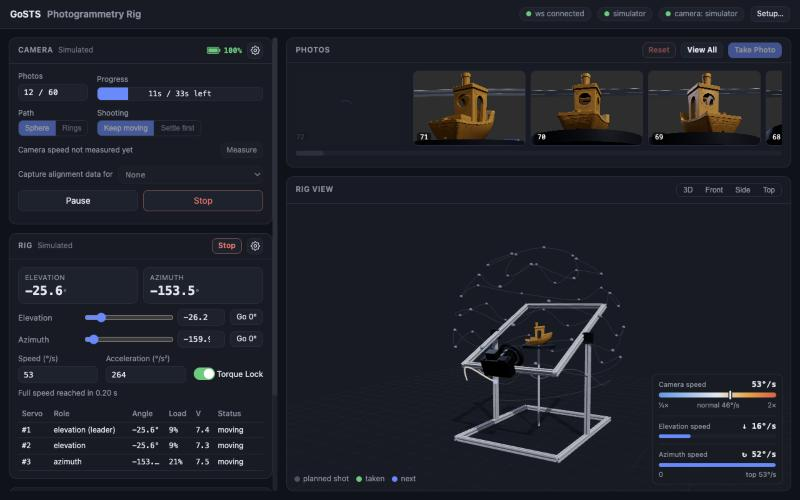
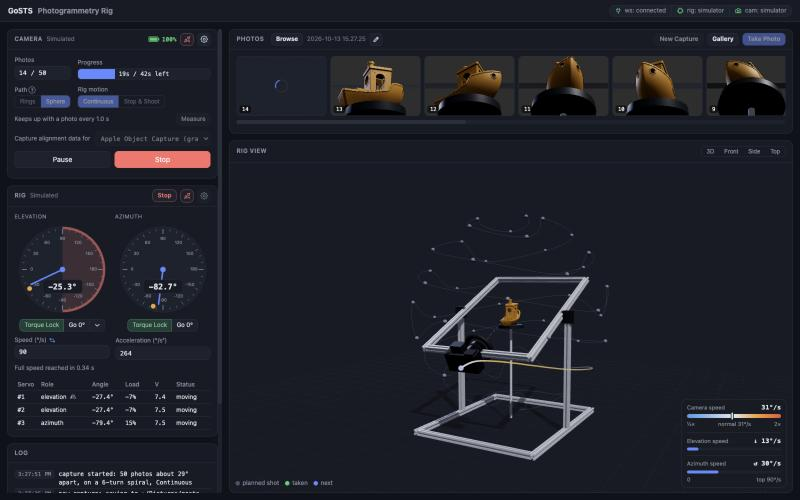
gosts-rig README: new screenshot (a Sphere capture under way) and the model viewer's with Edit open; Edit's steps as they are now

diff --git a/cmd/gosts-rig/README.md b/cmd/gosts-rig/README.md
@@ -4,6 +4,7 @@ Runs a turntable photogrammetry rig from the browser: plan a capture, watch the 
 straight off the camera. An example app of [Go ST Servo](../../README.md).
 
 <p align="center"><img src="../../docs/gosts-rig.jpg" alt="gosts-rig: a moving-shots capture under way, the photos coming in and the rig drawn live"></p>
+<p align="center"><img src="../../docs/gosts-rig-model.jpg" alt="gosts-rig: a capture's model in the 3D viewer, the Edit panel open to level, align, trim and scale it"></p>
 
 ## The rig
 
@@ -12,7 +13,8 @@ straight off the camera. An example app of [Go ST Servo](../../README.md).
 - One ST3215 turns the platform under the target object
 - A camera on USB that [gphoto2](http://gphoto.org) can drive
 
-No hardware? Simulators are available for both the rig and the camera.
+No hardware? Simulators are available for both the rig and the camera (the simulated camera's photos are the 3D
+view from the camera, saved as JPEGs like a real camera's).
 
 ## Install and run
 
@@ -114,25 +116,27 @@ The view buttons at the top left glide to a view, in Blender's and Fusion's axes
 The viewer shows the axes as they do (X red, Y green, Z blue up) and the ground grid at the origin. **Pick Points**,
 then click on the model (each click snaps to the nearest corner of the triangle under it):
 
-1. **Level**: 3 or more points on what it should stand on; the plane through them goes to the ground, the model above it.
-2. **Align**: 2 or more points along an edge, and X or Y; the model turns about the vertical so the edge runs along it.
-3. **Scale**: 2 points and their real distance (mm or in); the model scales to match (Object Capture's own size is a
-   guess from the photos).
-4. **Rotate**: a turn about X, Y and Z (−180° to 180°) through the origin, a slider each (or −90° / +90° at its ends:
-   past ±180° the turn comes round from the other end); the model turns as it's set. It's kept as one step when another
-   starts (the sliders back to 0°); Undo before that puts it back.
-5. **Trim**: move the sides of a box (X, Y, Z, each min and max) in; the part outside it shows cut off as you go, and
+1. **Level**: 3 or more points on what it should stand on (their plane shows, see-through); **Level** puts that plane
+   on the ground, the model above it.
+2. **Align**: 2 or more points along an edge (the upright plane through them shows), and the axis, X or Y; **Align**
+   turns the model about the vertical so the edge runs along it.
+3. **Rotate**: a turn about X, Y and Z (−180° to 180°) through the origin, a slider each (or −90° / +90° at its ends:
+   past ±180° the turn comes round from the other end); the model turns as it's set. **Apply** keeps it as a step (the
+   sliders back to 0°; starting another step does too); Undo before that puts it back.
+4. **Trim**: move the sides of a box (X, Y, Z, each min and max) in; the part outside it shows cut off as you go, and
    **Trim** cuts it away: triangles across a side are cut along it (their texture and normals kept), so the cut is
    exact.
-6. **Center**: a point, then an axis (X, Y or Z): the model slides along it so the point is at 0 on it, the others
-   left as they are; all three, one after another, put the point at the origin. **Apply** keeps it (Clear or Undo,
-   before that, puts it back).
+5. **Center**: a point, then an axis (X, Y or Z): the model (and the point with it) slides along it so the point is at
+   0 on it, the others left as they are; all three put the point at the origin, a click again undoes one. **Apply**
+   keeps it (Clear or Undo, before that, puts it back).
+6. **Scale**: 2 points and their real distance (mm or in); the model scales to match (Object Capture's own size is a
+   guess from the photos).
 
 Each step centers it on the origin; the size (X × Y × Z) shows as it goes; **Undo** steps back. **Save** writes it as a
 new model in the capture (named `<model>-aligned` unless you name it): the OBJ in the file units picked (mm, the
 default; in; or m, Blender's), y up as OBJ files are (Blender and Fusion turn it z up), its materials and textures
 copied; **Also an STL** (z up, as STL files are); **Simplify to** a number of triangles (meshoptimizer; the texture
-kept). Its `edit.json` says what it was made from and how; saving under the same name again replaces it (the one
+kept; more than the model has warns, as it would stay as it is). With a step set up but not applied, Save asks first. Its `edit.json` says what it was made from and how; saving under the same name again replaces it (the one
 before to the Trash). **Overwrite** (by the name) saves over the model being edited itself: its folder gets the edited
 model, the one there before goes to the Trash.
 
